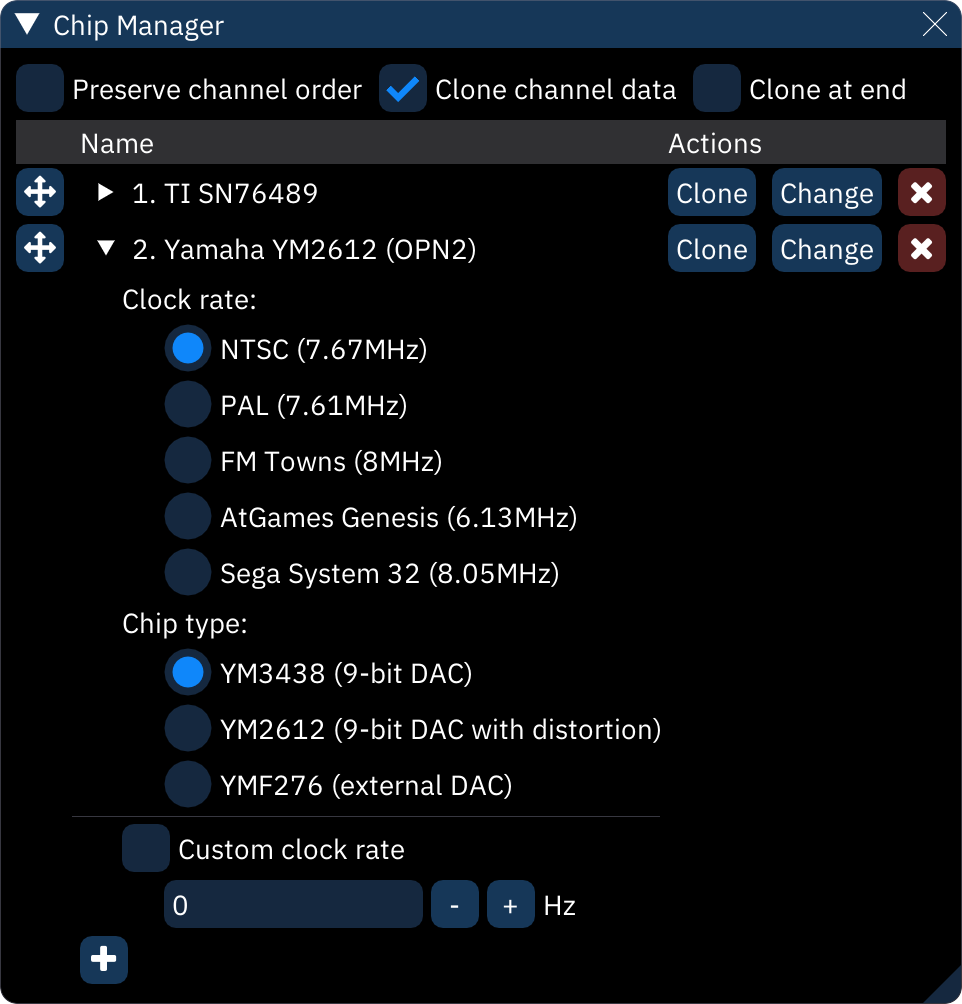
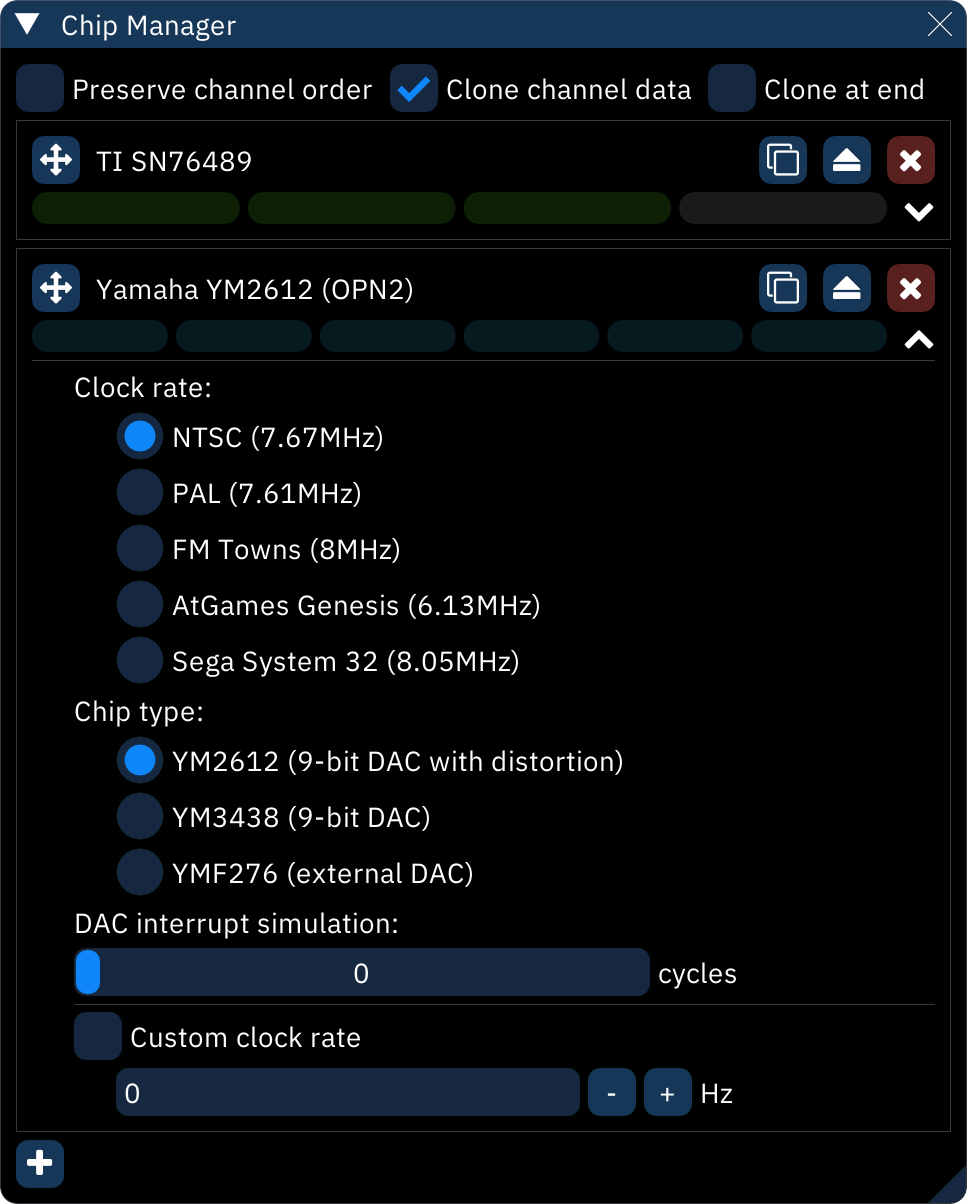
Document chip manager facelift.
Also, we forgot to add MultiPCM to the chips list!

Changed region(s): [[0.0, 0.0, 1.0, 0.988], [0.9667, 0.9572, 1.0, 1.0]]

diff --git a/doc/8-advanced/chip-manager.md b/doc/8-advanced/chip-manager.md
@@ -10,12 +10,14 @@ the **chip manager** window allows you to manage chips, including adding, changi
 
 **Clone at end**: instead of inserting the clone directly after the cloned chip, add it to the end.
 
+each chip shows an "LED" row with segments corresponding to its channels. (they light up when a new note plays!)
+
 to move a chip around, click and drag the ![crossed-arrows](chip-manager-move.png) button to the left.
 
-to duplicate a chip, click the **Clone** button.
+to clone a chip, click the ![two pages](chip-manager-clone.png) button to the right.
 
-to replace a chip with a different one, click the **Change** button. this will display the chip selector.
+to replace a chip with a different one, click the !["eject"](chip-manager-change.png) button. this will display the chip selector.
 
 to remove a chip, click the ![X](chip-manager-remove.png) button.
 
-click on a chip's name to open chip configuration. this allows you to change chip options, such as clock rate, chip type and so on.
+to configure a chip, click the  ![chevron](chip-manager-edit.png) to the right of the LEDs. this allows you to change chip options such as clock rate, chip type, and so on. refer to [each chip's documentation](../7-systems/README.md) for more information on its options. 

diff --git a/doc/7-systems/README.md b/doc/7-systems/README.md
@@ -86,6 +86,7 @@ this is the full list of chips that Furnace supports.
 - [MSM5232](msm5232.md)
 - [MSM6258](msm6258.md)
 - [MSM6295](msm6295.md)
+- [MultiPCM](multipcm.md)
 - [Namco 163](n163.md)
 - [Namco C140](c140.md)
 - [Namco WSG/C15/C30](namco.md)
